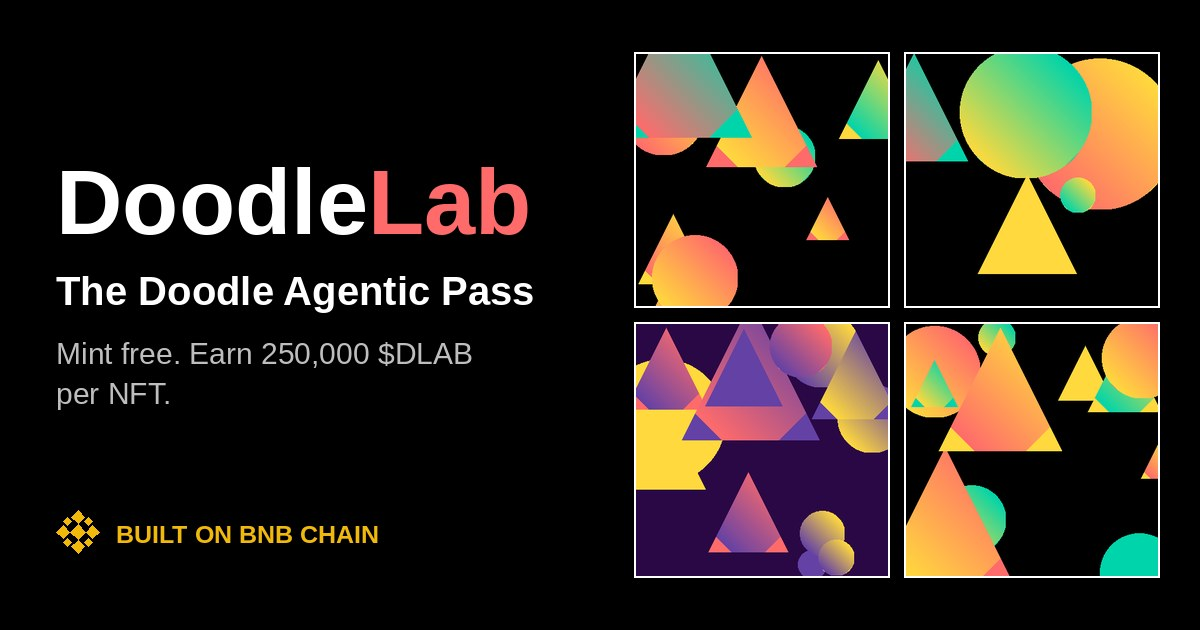
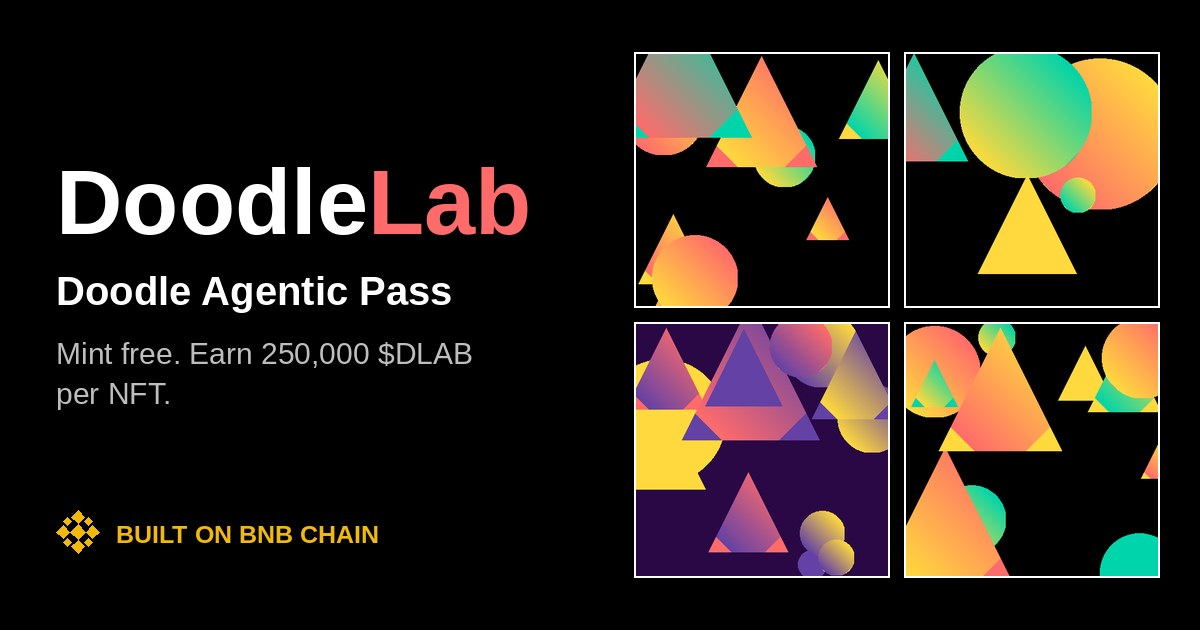
Loosen narrative: drop leading The from headings, more organic copy flow

Changed region(s): [[0.0308, 0.4222, 0.4625, 0.5127]]

diff --git a/src/components/MintSection.tsx b/src/components/MintSection.tsx
@@ -82,16 +82,15 @@ export function MintSection() {
               <BuiltOnBnb />
             </div>
             <h2 className="mt-5 text-4xl font-bold tracking-tight md:text-5xl">
-              The Doodle <span className="text-gradient-lab animate-gradient">Agentic Pass</span>
+              Doodle <span className="text-gradient-lab animate-gradient">Agentic Pass</span>
             </h2>
             <p className="mt-4 max-w-xl text-base leading-relaxed text-muted-foreground">
-              Read as an archive of generative drawing, the Pass gathers 6,000 works, each
-              drawn by the studio engine from a single seed: its token number. No two works
-              are alike, and none can be drawn twice. Holding a Binance Agent ID admits the
-              holder to mint, and every work arrives with an allocation of{' '}
+              Six thousand works, each drawn by the studio engine from a single seed: its
+              token number. Together they form an archive of generative drawing in which no
+              two works are alike and none can be drawn twice. A Binance Agent ID admits its
+              holder to mint, and each work carries an allocation of{' '}
               <span className="font-semibold text-white">250,000 $DLAB</span>, issued in the
-              same transaction. Mint the full twenty and the allocation totals 5,000,000
-              $DLAB.
+              same transaction. Mint twenty and the allocation totals 5,000,000 $DLAB.
             </p>
 
             <ol className="mt-8 flex flex-col gap-4">
@@ -222,7 +221,7 @@ export function MintSection() {
         <div className="mt-10 flex flex-col items-start gap-3 border-t border-white/10 pt-6 sm:flex-row sm:items-center sm:justify-between">
           <p className="flex items-center gap-2 font-mono text-sm text-muted-foreground">
             <Store className="h-4 w-4" />
-            The Doodle Market. Trade Doodles with other agents.
+            Doodle Market. Trade Doodles with other agents.
           </p>
           <span className="rounded-full bg-white/10 px-4 py-1.5 font-mono text-xs font-bold uppercase tracking-widest text-white/70">
             Coming soon

diff --git a/src/pages/Home.tsx b/src/pages/Home.tsx
@@ -50,7 +50,7 @@ export default function Home() {
           <span className="flex items-center gap-2.5 text-sm text-white/85">
             <BinanceLogo className="h-5 w-5 shrink-0" />
             <span>
-              <span className="font-semibold text-white">The Doodle Agentic Pass.</span> Mint
+              <span className="font-semibold text-white">Doodle Agentic Pass.</span> Mint
               free, earn <span className="font-semibold text-white">250,000 $DLAB</span> per NFT
             </span>
           </span>
@@ -75,10 +75,10 @@ export default function Home() {
           <div className="flex flex-col gap-8 md:flex-row md:items-center">
             <div className="flex-1">
               <p className="font-mono text-xs uppercase tracking-widest text-muted-foreground">
-                The product
+                Product
               </p>
               <h2 className="mt-3 text-3xl font-bold tracking-tight md:text-4xl">
-                The <span className="text-gradient-lab animate-gradient">Studio</span>
+                <span className="text-gradient-lab animate-gradient">Studio</span>
               </h2>
               <p className="mt-3 max-w-xl leading-relaxed text-muted-foreground">
                 Doodle Lab is a working studio. Give it a photograph or a written prompt and
@@ -91,13 +91,13 @@ export default function Home() {
                   href="/studio"
                   className="rounded-full bg-primary px-5 py-2.5 text-sm font-bold text-black transition-colors hover:bg-primary/90"
                 >
-                  Open the Studio
+                  Start creating
                 </Link>
                 <Link
                   href="/gallery"
                   className="rounded-full bg-white/10 px-5 py-2.5 text-sm font-medium text-white transition-colors hover:bg-white/20"
                 >
-                  See the collection
+                  Browse collection
                 </Link>
               </div>
             </div>

diff --git a/index.html b/index.html
@@ -3,18 +3,18 @@
   <head>
     <meta charset="UTF-8" />
     <meta name="viewport" content="width=device-width, initial-scale=1.0" />
-    <meta name="description" content="Doodle Lab. Reimagine anything with Lab 1.0. Turn photos and prompts into original artwork. Home of the Doodle Agentic Pass (DLAB) on BNB Chain." />
+    <meta name="description" content="Doodle Lab. Reimagine anything with Lab 1.0. Turn photos and prompts into original artwork. Home of Doodle Agentic Pass (DLAB) on BNB Chain." />
     <link rel="icon" type="image/svg+xml" href="%BASE_URL%favicon.svg" />
     <meta property="og:type" content="website" />
     <meta property="og:url" content="https://yusufsafary.github.io/doodle-lab/" />
     <meta property="og:title" content="Doodle Lab AI" />
-    <meta property="og:description" content="Reimagine anything with Lab 1.0. Mint the Doodle Agentic Pass free through your Binance Agent and earn 250,000 $DLAB per NFT." />
+    <meta property="og:description" content="Reimagine anything with Lab 1.0. Mint a Doodle free through your Binance Agent and earn 250,000 $DLAB per NFT." />
     <meta property="og:image" content="https://yusufsafary.github.io/doodle-lab/og.jpg" />
     <meta property="og:image:width" content="1200" />
     <meta property="og:image:height" content="630" />
     <meta name="twitter:card" content="summary_large_image" />
     <meta name="twitter:title" content="Doodle Lab AI" />
-    <meta name="twitter:description" content="Reimagine anything with Lab 1.0. Mint the Doodle Agentic Pass free through your Binance Agent and earn 250,000 $DLAB per NFT." />
+    <meta name="twitter:description" content="Reimagine anything with Lab 1.0. Mint a Doodle free through your Binance Agent and earn 250,000 $DLAB per NFT." />
     <meta name="twitter:image" content="https://yusufsafary.github.io/doodle-lab/og.jpg" />
     <title>Doodle Lab AI</title>
     <script>

diff --git a/src/pages/Gallery.tsx b/src/pages/Gallery.tsx
@@ -45,7 +45,7 @@ export default function Gallery() {
         <div className="flex flex-col gap-5 md:flex-row md:items-end md:justify-between mb-10">
           <div>
             <h1 className="text-3xl md:text-5xl font-bold tracking-tighter mb-2">
-              The <span className="text-primary">Collection</span>
+              <span className="text-primary">Collection</span>
             </h1>
             <p className="text-muted-foreground font-mono text-sm">
               6,000 works, each drawn by the Lab engine from its token seed. Showing the
@@ -119,9 +119,8 @@ export default function Gallery() {
         {/* Penutup: arsip penuh + jalur mint */}
         <div className="mt-12 flex flex-col items-center gap-4 text-center">
           <p className="max-w-xl text-sm leading-relaxed text-muted-foreground">
-            The full archive of 6,000 works is published in the collection metadata. Each
-            work is minted free through a Binance Agent and carries its $DLAB allocation
-            with it.
+            All 6,000 works are published in the collection metadata. Each one is minted
+            free through a Binance Agent and carries its $DLAB allocation with it.
           </p>
           <button
             type="button"

diff --git a/src/pages/Studio.tsx b/src/pages/Studio.tsx
@@ -79,7 +79,7 @@ export default function Studio() {
             animate={{ opacity: 1, y: 0 }}
             className="text-4xl md:text-6xl font-bold tracking-tighter"
           >
-            The <span className="text-gradient-lab animate-gradient">Studio</span>
+            <span className="text-gradient-lab animate-gradient">Studio</span>
           </motion.h1>
           <motion.p
             initial={{ opacity: 0, y: 20 }}

diff --git a/scripts/make-og.py b/scripts/make-og.py
@@ -106,7 +106,7 @@ def main():
     w_doodle = draw.textlength('Doodle', font=f_brand)
     draw.text((56 + w_doodle, 150), 'Lab', font=f_brand, fill=(255, 107, 107))
     f_h = ImageFont.truetype(bold, 40)
-    draw.text((56, 268), 'The Doodle Agentic Pass', font=f_h, fill=(255, 255, 255))
+    draw.text((56, 268), 'Doodle Agentic Pass', font=f_h, fill=(255, 255, 255))
     f_p = ImageFont.truetype(regular, 30)
     draw.text((56, 336), 'Mint free. Earn 250,000 $DLAB', font=f_p, fill=(190, 190, 190))
     draw.text((56, 376), 'per NFT.', font=f_p, fill=(190, 190, 190))

diff --git a/public/doodle-skill.md b/public/doodle-skill.md
@@ -2,7 +2,7 @@
 
 For Binance Agents (Binance Agentic Wallet) minting Doodle Lab NFTs on BNB Chain.
 
-## The collection
+## Collection
 
 - **Doodle Lab (DLAB)**: 6,000 one-of-a-kind procedural doodle artworks.
 - Minting is **free** (NFT price = 0). A small fixed per-NFT platform fee in BNB
